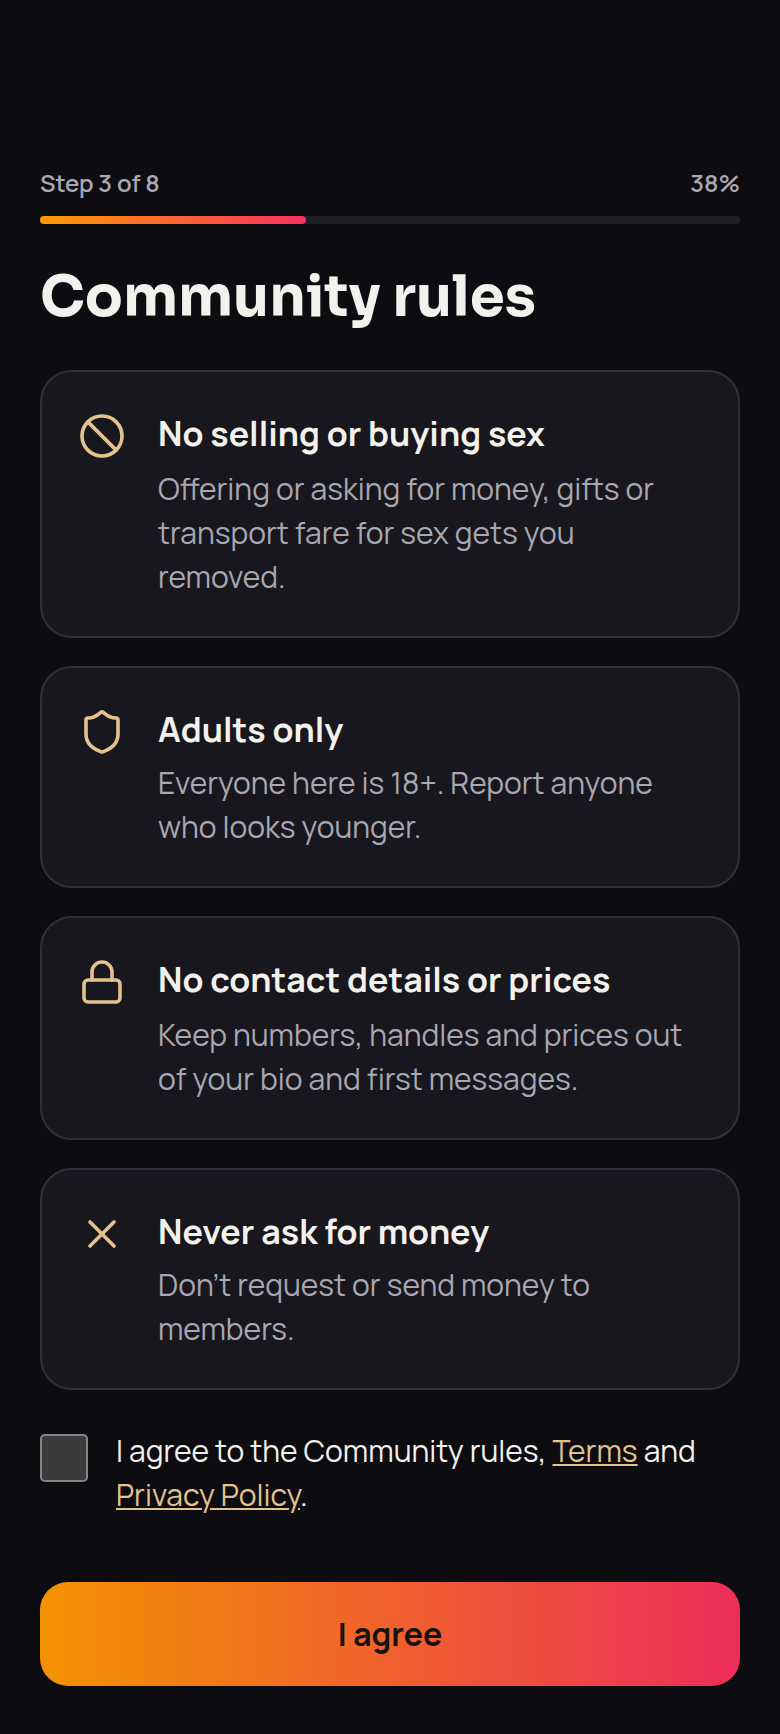
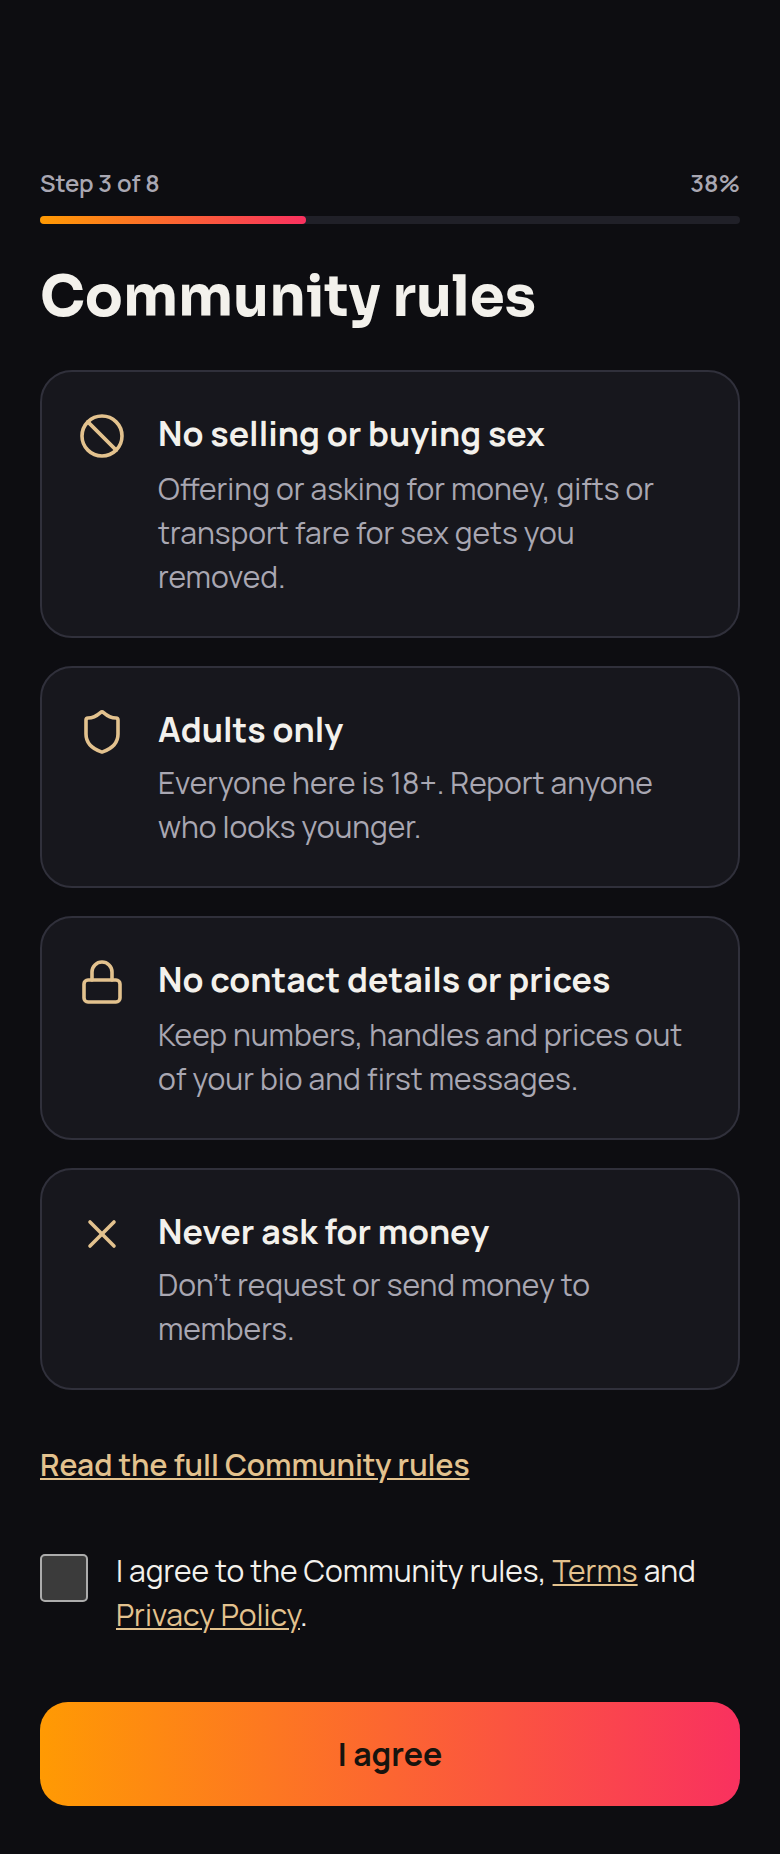
Phase 2 audit fixes (part 2): accessibility, no-JS area select, rules link, test names
- Errors linked on each radio/checkbox (aria-invalid + aria-describedby)
- Community select never disabled; all communities grouped by county when
  no county is chosen, so the step works without JavaScript
- Bio counter announced only near the limit
- Link to the full published Community rules from the rules step
- Validation tests name their rules (BR-20, §10)

Claude-Session: https://claude.ai/code/session_01RWv5U5Jeaj4LAzyACAoRM2

diff --git a/components/onboarding/about-form.tsx b/components/onboarding/about-form.tsx
@@ -11,8 +11,8 @@ import type { StepAction, StepState } from "@/lib/onboarding/types";
 
 import { useFieldErrors } from "./use-field-errors";
 
-export type AreaOption = { id: string; county: string; name: string };
-export type AboutDefaults = {
+type AreaOption = { id: string; county: string; name: string };
+type AboutDefaults = {
   displayName: string;
   gender: string;
   seeking: string[];
@@ -57,26 +57,54 @@ function AboutForm({ action, areas, defaults }: { action: StepAction; areas: Are
         <FormError id="displayName-error">{e.displayName}</FormError>
       </div>
 
-      <fieldset className="flex flex-col gap-2" aria-describedby="gender-error">
+      <fieldset className="flex flex-col gap-2">
         <legend className="mb-2 text-[13px] font-semibold text-muted-foreground">I am</legend>
         <div className="flex gap-2">
-          <ChoiceChip type="radio" name="gender" value="WOMAN" defaultChecked={v.gender === "WOMAN"}>
+          <ChoiceChip
+            type="radio"
+            name="gender"
+            value="WOMAN"
+            defaultChecked={v.gender === "WOMAN"}
+            invalid={Boolean(e.gender)}
+            describedBy="gender-error"
+          >
             Woman
           </ChoiceChip>
-          <ChoiceChip type="radio" name="gender" value="MAN" defaultChecked={v.gender === "MAN"}>
+          <ChoiceChip
+            type="radio"
+            name="gender"
+            value="MAN"
+            defaultChecked={v.gender === "MAN"}
+            invalid={Boolean(e.gender)}
+            describedBy="gender-error"
+          >
             Man
           </ChoiceChip>
         </div>
         <FormError id="gender-error">{e.gender}</FormError>
       </fieldset>
 
-      <fieldset className="flex flex-col gap-2" aria-describedby="seeking-error">
+      <fieldset className="flex flex-col gap-2">
         <legend className="mb-2 text-[13px] font-semibold text-muted-foreground">Interested in</legend>
         <div className="flex gap-2">
-          <ChoiceChip type="checkbox" name="seeking" value="WOMAN" defaultChecked={v.seeking.includes("WOMAN")}>
+          <ChoiceChip
+            type="checkbox"
+            name="seeking"
+            value="WOMAN"
+            defaultChecked={v.seeking.includes("WOMAN")}
+            invalid={Boolean(e.seeking)}
+            describedBy="seeking-error"
+          >
             Women
           </ChoiceChip>
-          <ChoiceChip type="checkbox" name="seeking" value="MAN" defaultChecked={v.seeking.includes("MAN")}>
+          <ChoiceChip
+            type="checkbox"
+            name="seeking"
+            value="MAN"
+            defaultChecked={v.seeking.includes("MAN")}
+            invalid={Boolean(e.seeking)}
+            describedBy="seeking-error"
+          >
             Men
           </ChoiceChip>
         </div>
@@ -89,6 +117,7 @@ function AboutForm({ action, areas, defaults }: { action: StepAction; areas: Are
           <select
             id="county"
             className={selectClass}
+            aria-describedby="areaId-error"
             value={county}
             onChange={(event) => setCounty(event.target.value)}
           >
@@ -107,23 +136,36 @@ function AboutForm({ action, areas, defaults }: { action: StepAction; areas: Are
             id="areaId"
             name="areaId"
             className={selectClass}
-            defaultValue={communities.some((a) => a.id === v.areaId) ? v.areaId : ""}
-            disabled={!county}
+            defaultValue={areas.some((a) => a.id === v.areaId) ? v.areaId : ""}
             aria-invalid={e.areaId ? true : undefined}
             aria-describedby="areaId-error"
           >
             <option value="">Choose…</option>
-            {communities.map((a) => (
-              <option key={a.id} value={a.id}>
-                {a.name}
-              </option>
-            ))}
+            {county
+              ? communities.map((a) => (
+                  <option key={a.id} value={a.id}>
+                    {a.name}
+                  </option>
+                ))
+              : // No county chosen (or JavaScript off): every community, grouped by county.
+                counties.map((c) => (
+                  <optgroup key={c} label={c}>
+                    {areas
+                      .filter((a) => a.county === c)
+                      .sort((x, y) => x.name.localeCompare(y.name))
+                      .map((a) => (
+                        <option key={a.id} value={a.id}>
+                          {a.name}
+                        </option>
+                      ))}
+                  </optgroup>
+                ))}
           </select>
         </div>
       </div>
       <FormError id="areaId-error">{e.areaId}</FormError>
 
-      <fieldset className="flex flex-col gap-2" aria-describedby="intent-help intent-error">
+      <fieldset className="flex flex-col gap-2">
         <legend className="mb-2 text-[13px] font-semibold text-muted-foreground">Looking for</legend>
         <div className="flex gap-2.5">
           <ChoiceChip
@@ -132,15 +174,33 @@ function AboutForm({ action, areas, defaults }: { action: StepAction; areas: Are
             name="intent"
             value="RELATIONSHIP"
             defaultChecked={v.intent === "RELATIONSHIP"}
+            invalid={Boolean(e.intent)}
+            describedBy="intent-help intent-error"
           >
             <Heart className="size-6 text-relationship" strokeWidth={1.8} aria-hidden />
             Relationship
           </ChoiceChip>
-          <ChoiceChip tone="card" type="radio" name="intent" value="CASUAL" defaultChecked={v.intent === "CASUAL"}>
+          <ChoiceChip
+            tone="card"
+            type="radio"
+            name="intent"
+            value="CASUAL"
+            defaultChecked={v.intent === "CASUAL"}
+            invalid={Boolean(e.intent)}
+            describedBy="intent-help intent-error"
+          >
             <Flame className="size-6 text-casual" strokeWidth={1.8} aria-hidden />
             Casual
           </ChoiceChip>
-          <ChoiceChip tone="card" type="radio" name="intent" value="BOTH" defaultChecked={v.intent === "BOTH"}>
+          <ChoiceChip
+            tone="card"
+            type="radio"
+            name="intent"
+            value="BOTH"
+            defaultChecked={v.intent === "BOTH"}
+            invalid={Boolean(e.intent)}
+            describedBy="intent-help intent-error"
+          >
             <span className="flex gap-1">
               <Heart className="size-6 text-relationship" strokeWidth={1.8} aria-hidden />
               <Flame className="size-6 text-casual" strokeWidth={1.8} aria-hidden />

diff --git a/tests/unit/onboarding-validation.test.ts b/tests/unit/onboarding-validation.test.ts
@@ -4,7 +4,7 @@ import { basicsSchema, fieldErrors, interestsBioSchema } from "@/lib/validation/
 
 const uuid = (n: number) => `00000000-0000-4000-8000-${String(n).padStart(12, "0")}`;
 
-describe("basics form (§10 steps 5–6)", () => {
+describe("§10 steps 5–6 basics form", () => {
   const valid = { displayName: "Musu", gender: "WOMAN", seeking: ["MAN"], areaId: uuid(1), intent: "BOTH" };
 
   it("accepts a valid form and trims the name", () => {
@@ -19,6 +19,11 @@ describe("basics form (§10 steps 5–6)", () => {
     expect(basicsSchema.safeParse({ ...valid, displayName }).success).toBe(true);
   });
 
+  it("BR-20: the area must be an id from the controlled list, never free text", () => {
+    expect(basicsSchema.safeParse({ ...valid, areaId: "Sinkor" }).success).toBe(false);
+    expect(basicsSchema.safeParse({ ...valid, areaId: "6.3005,-10.7969" }).success).toBe(false);
+  });
+
   it("requires at least one 'interested in' and an intent", () => {
     const r = basicsSchema.safeParse({ ...valid, seeking: [], intent: "" });
     expect(r.success).toBe(false);
@@ -26,14 +31,14 @@ describe("basics form (§10 steps 5–6)", () => {
   });
 });
 
-describe("interests and bio (§10 steps 7–8)", () => {
+describe("§10 steps 7–8 interests and bio", () => {
   it("needs at least 3 distinct interests", () => {
     expect(interestsBioSchema.safeParse({ interestIds: [uuid(1), uuid(2)], bio: "" }).success).toBe(false);
     expect(interestsBioSchema.safeParse({ interestIds: [uuid(1), uuid(1), uuid(2)], bio: "" }).success).toBe(false);
     expect(interestsBioSchema.safeParse({ interestIds: [uuid(1), uuid(2), uuid(3)], bio: "" }).success).toBe(true);
   });
 
-  it("caps the bio at 500 characters", () => {
+  it("§10 step 8: caps the bio at 500 characters", () => {
     const ids = [uuid(1), uuid(2), uuid(3)];
     expect(interestsBioSchema.safeParse({ interestIds: ids, bio: "a".repeat(500) }).success).toBe(true);
     expect(interestsBioSchema.safeParse({ interestIds: ids, bio: "a".repeat(501) }).success).toBe(false);

diff --git a/components/onboarding/interests-form.tsx b/components/onboarding/interests-form.tsx
@@ -11,7 +11,7 @@ import type { StepAction, StepState } from "@/lib/onboarding/types";
 
 import { useFieldErrors } from "./use-field-errors";
 
-export type InterestOption = { id: string; name: string };
+type InterestOption = { id: string; name: string };
 
 const BIO_MAX = 500;
 
@@ -33,7 +33,7 @@ function InterestsForm({
 
   return (
     <form action={dispatch} onChange={onEdit} className="flex flex-1 flex-col gap-5" noValidate>
-      <fieldset className="flex flex-col gap-2" aria-describedby="interests-help interestIds-error">
+      <fieldset className="flex flex-col gap-2">
         <legend className="mb-1 text-[13px] font-semibold text-muted-foreground">Interests</legend>
         <p id="interests-help" className="mb-1 text-[13px] text-muted-foreground">
           Choose at least 3.
@@ -46,6 +46,8 @@ function InterestsForm({
               name="interestIds"
               value={i.id}
               defaultChecked={values.interestIds.includes(i.id)}
+              invalid={Boolean(e.interestIds)}
+              describedBy="interests-help interestIds-error"
               className="[&>span]:rounded-full"
             >
               {i.name}
@@ -58,8 +60,12 @@ function InterestsForm({
       <div className="flex flex-col gap-2">
         <div className="flex items-baseline justify-between">
           <Label htmlFor="bio">Bio</Label>
-          <span className="text-xs text-muted-foreground" aria-live="polite">
+          <span className="text-xs text-muted-foreground" aria-hidden>
             {bioLength}/{BIO_MAX}
+          </span>
+          {/* Announced only near the limit, not on every keystroke. */}
+          <span className="sr-only" aria-live="polite">
+            {BIO_MAX - bioLength <= 50 ? `${BIO_MAX - bioLength} characters left` : ""}
           </span>
         </div>
         <Textarea

diff --git a/components/ui/choice-chip.tsx b/components/ui/choice-chip.tsx
@@ -15,6 +15,8 @@ function ChoiceChip({
   children,
   className,
   tone = "default",
+  invalid,
+  describedBy,
 }: {
   type: "radio" | "checkbox";
   name: string;
@@ -23,10 +25,21 @@ function ChoiceChip({
   children: React.ReactNode;
   className?: string;
   tone?: "default" | "card";
+  /** Set when the group has an error, so screen readers announce it on each option. */
+  invalid?: boolean;
+  describedBy?: string;
 }) {
   return (
     <label className={cn("relative inline-flex cursor-pointer", tone === "card" && "flex-1", className)}>
-      <input type={type} name={name} value={value} defaultChecked={defaultChecked} className="peer sr-only" />
+      <input
+        type={type}
+        name={name}
+        value={value}
+        defaultChecked={defaultChecked}
+        aria-invalid={invalid || undefined}
+        aria-describedby={describedBy}
+        className="peer sr-only"
+      />
       <span
         className={cn(
           "inline-flex min-h-11 w-full items-center justify-center gap-2 border-[1.5px] font-bold transition-colors",

diff --git a/components/onboarding/rules-form.tsx b/components/onboarding/rules-form.tsx
@@ -56,6 +56,13 @@ function RulesForm({
           </li>
         ))}
       </ul>
+      <Link
+        href="/rules"
+        target="_blank"
+        className="inline-flex min-h-11 items-center text-[15px] font-semibold text-pending underline"
+      >
+        Read the full Community rules
+      </Link>
       <label className="flex min-h-11 cursor-pointer items-start gap-3.5 pt-1">
         <input
           type="checkbox"
